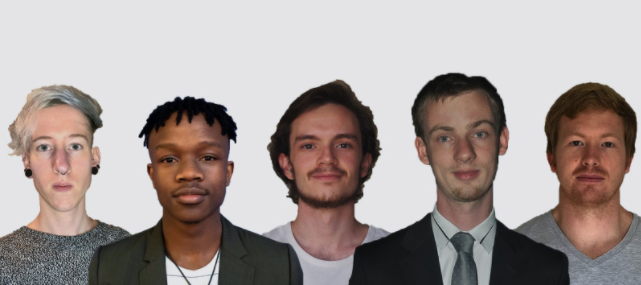
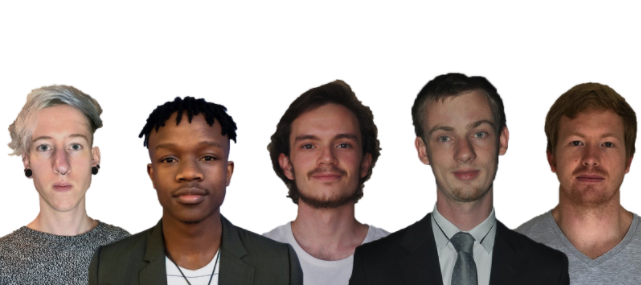
Updated JSON Selectors For Services
To accomodate the changes made to the API route paths, I modified the selectors responsible for accessing the relevant JSON object values from HTTP requests.

Other changes include:
-Changed the application name on the navigation bar and browser title bar.
-Removed the white background of the group photo in the About page.
-Changed sign-in form colors to prevent color blending.
-Changed footer color and modified footer content.

diff --git a/frontend/src/app/components/moderate/moderate.component.html b/frontend/src/app/components/moderate/moderate.component.html
@@ -20,8 +20,8 @@
                     <input matInput  type="text" formControlName="SourceName" [(ngModel)]="clearSearchSourceName"
                     aria-label="Number" matInput [formControl]="myControl" [matAutocomplete]="auto" required>
                     <mat-autocomplete #auto="matAutocomplete">
-                        <mat-option *ngFor="let option of filteredOptions | async" [value]="option.name">
-                          {{option.name}}
+                        <mat-option *ngFor="let option of filteredOptions | async" [value]="option.Name">
+                          {{option.Name}}
                         </mat-option>
                       </mat-autocomplete>
                     <button mat-button *ngIf="clearSearchSourceName" matSuffix mat-icon-button aria-label="Clear" (click)="clearSearchSourceName=''">
@@ -75,19 +75,19 @@
         <!--End of Form for searching a source-->
        
              <div class="Response-Cards">
-                    <div  *ngIf="sourcelist.source">
+                    <div  *ngIf="sourcelist">
                         <mat-card id="SearchResponseCard" class="example-card" *ngIf="dismiss">
                             <mat-card-header>
                             <div mat-card-avatar class="example-header-image"><img id="cardImg" src="assets/img/5bitslogo.png"/></div>
-                            <mat-card-title>{{sourcelist.source?.name}}</mat-card-title>
+                            <mat-card-title>{{sourcelist?.Name}}</mat-card-title>
                             </mat-card-header>
                             <mat-card-content>
-                                <p> <span>Source URL: </span> <i>{{sourcelist.source?.tld}}</i></p>
-                            <p> <span>Popularity Rating: </span><i>{{sourcelist.source?.rating}}</i></p> 
+                                <p> <span>Source URL: </span> <i>{{sourcelist['Domain Name']}}</i></p>
+                            <p> <span>Popularity Rating: </span><i>{{sourcelist?.Rating}}</i></p> 
                             </mat-card-content>
                             <mat-card-actions>
                             <button mat-raised-button color="accent" (click)="dismiss=false">Dismiss</button>
-                            <button mat-raised-button color="accent" (click)="DeleteSource(sourcelist.source?._id)">Delete Source</button>
+                            <button mat-raised-button color="accent" (click)="DeleteSource(sourcelist?.ID)">Delete Source</button>
                             </mat-card-actions>
                         </mat-card>
                     </div>
@@ -140,8 +140,8 @@
         <div id="listOfFacts">
             
             <ul style="list-style-type:none;"  *ngFor="let fact of factslist; let i = index">
-                <li *ngIf="7 > i">"{{fact.statement}}"</li>
-                {{fact.count}}
+                <li *ngIf="7 > i">"{{fact.Statement}}"</li>
+                
             </ul>
   
         </div>
@@ -170,7 +170,7 @@
                   </mat-form-field>
          
             <div>
-                <button mat-raised-button color="accent" type="submit">Insert Fact</button>
+                <a href="#AddedFactBookmark"><button mat-raised-button color="accent" type="submit">Insert Fact</button></a>
             </div>
     
             </form>
@@ -180,7 +180,7 @@
 
      <div class="Response-Cards">
         <!--Alternate divs that load when specific events occur-->
-            <div *ngIf="insertFactResponse">
+            <div *ngIf="insertFactResponse" id="AddedFactBookmark">
                 <mat-card color="primary" id="SearchResponseCard" class="example-card">
                     <mat-card-content>
                         <p> False fact has been added.</p> 

diff --git a/frontend/src/app/components/moderate/moderate.component.ts b/frontend/src/app/components/moderate/moderate.component.ts
@@ -111,8 +111,8 @@ export class ModerateComponent implements OnInit {
           return this.autocompleteService.getData()
           .pipe(
             map( 
-              response => response.sources.filter(option => { 
-              return option.name.toLowerCase().indexOf(val.toLowerCase()) === 0
+              response => response.response.Sources.filter(option => { 
+              return option.Name.toLowerCase().indexOf(val.toLowerCase()) === 0
             }))
           )
         }  
@@ -128,7 +128,7 @@ export class ModerateComponent implements OnInit {
 
         this.searchService.search(this.SourceInputForm.value.SourceName).
         subscribe((data: any={}) =>{
-            this.sourcelist = data;
+            this.sourcelist = data.response.Source;
             this.dismiss=true;
 
             //this.testSearch=true;
@@ -156,7 +156,7 @@ export class ModerateComponent implements OnInit {
           .getFactsList()
           .subscribe((data:any) => {
             console.log(data);
-            this.factslist = data.facts;
+            this.factslist = data.response.Facts;
           });
         }
       /* end of fetch list function */ 
@@ -225,7 +225,7 @@ export class ModerateComponent implements OnInit {
 
         if(this.SourceInputForm.valid){
           this.SourceInputForm.reset();
-          this.sourcelist.source = "";
+          this.sourcelist = "";
           this.searchNotFound = false;
         }
         

diff --git a/frontend/src/app/user-accountbutton/user-accountbutton.component.html b/frontend/src/app/user-accountbutton/user-accountbutton.component.html
@@ -16,9 +16,9 @@
             <!-- <div class="help-block text-center"><a href="">Forget the password ?</a></div> --> 
         
         <div>
-             <button type="submit" mat-raised-button color="primary"> Sign in </button>
+             <button type="submit" mat-raised-button color="accent"> Sign in </button>
         </div> <br>
-        <div class="help-block text-center"><h4 id="signupText">Are You New Here? <a  (click)="toggleForm()"> Sign Up</a> </h4>  </div>
+        <div class="help-block text-center"><h4 id="signupText">Are You New Here? <a  color="link" (click)="toggleForm()"> Sign Up</a> </h4>  </div>
     </form>
 
     <form class="form" *ngIf="signUp && !signIn">
@@ -40,9 +40,9 @@
         <!-- <div class="help-block text-center"><a href="">Forget the password ?</a></div> --> 
     
     <div>
-         <button type="submit" mat-raised-button color="primary">Sign Up</button>
+         <button type="submit" mat-raised-button color="accent">Sign Up</button>
     </div> <br>
-    <div class="help-block text-center"><h4 id="signupText">Already have one? <a  (click)="toggleForm()"> Sign In</a> </h4>  </div>
+    <div class="help-block text-center"><h4 id="signupText">Already have one? <a color="link" (click)="toggleForm()"> Sign In</a> </h4>  </div>
 </form>
     </a>
   </mat-menu>

diff --git a/frontend/src/app/components/header/header.component.html b/frontend/src/app/components/header/header.component.html
@@ -54,7 +54,7 @@
 
 
 <!-- Responsive navbar-->
-<div id="nav" style="height: 80vh;">
+<div id="nav" style="height: 85vh;">
   <mat-toolbar>
     <mat-toolbar-row>
       <button mat-icon-button (click)="sidenav.toggle()" fxShow="true" fxHide.gt-sm>
@@ -62,8 +62,8 @@
       </button>
       <span>
         <a id="navbrand" class="navbar-brand" routerLink=""><img src="assets/img/5bitslogo.png"> <span
-            class="titleText">AI News
-            Detector</span></a>
+            class="logoHead">ArtiFact
+            </span></a>
       </span>
       <span class="menu-spacer"></span>
       <div fxShow="true" fxHide.lt-md>

diff --git a/frontend/src/app/components/header/header.component.css b/frontend/src/app/components/header/header.component.css
@@ -1,3 +1,16 @@
+@font-face {
+    font-family: LogoHeading;
+    src: url("/assets/fonts/aquire-font/AquireLight-YzE0o.otf") format("truetype");
+}
+
+.logoHead{
+	font-family: LogoHeading;
+}
+
+#heading_link{
+	font-weight: 400;
+}
+
 img {
 	max-width: 20%;
 	height: auto;

diff --git a/frontend/src/app/delete-source.service.ts b/frontend/src/app/delete-source.service.ts
@@ -6,7 +6,7 @@ import { HttpClient } from '@angular/common/http';
 })
 export class DeleteSourceService {
 
-  url = 'http://fakenewsdetector.tech/api/sources/';
+  url = 'http://fakenewsdetector.tech/api/sources/id/';
 
   constructor(private _http: HttpClient) { }
 

diff --git a/frontend/src/index.html b/frontend/src/index.html
@@ -3,7 +3,7 @@
 
 <head>
   <meta charset="utf-8">
-  <title>Fake News Detector</title>
+  <title>ArtiFact</title>
   <base href="/">
   <meta name="viewport" content="width=device-width, initial-scale=1">
   <link rel="icon" type="image/x-icon" href="favicon.ico">

diff --git a/frontend/src/app/components/footer/footer.component.html b/frontend/src/app/components/footer/footer.component.html
@@ -3,6 +3,6 @@
     <br />
     <div id="FooterLogo"><img src="assets/img/5bitslogo.png"></div>
     <div id="FooterLogo">
-        <h2>© 2020 by 5Bits</h2>
+        <p id="footerText">© 2020 by 5Bits</p>
     </div>
 </footer>

diff --git a/frontend/src/app/components/footer/footer.component.css b/frontend/src/app/components/footer/footer.component.css
@@ -19,7 +19,7 @@ img {
 	margin-bottom: 0em;
 }
 
-h2 {
-	color: rgba(0, 0, 0, 0.4);
-	font-size: 3px;
+p {
+	padding-top: 10px;
+	font-size: 1.3em;
 }

diff --git a/frontend/src/assets/indigo-pink.css b/frontend/src/assets/indigo-pink.css
@@ -5,7 +5,11 @@
   }
 
 footer{
-	background-color:  #e7e8ea;
+	background-color:  white;
+}
+
+#footerText{
+	color: black;
 }
 
 body{

diff --git a/frontend/src/assets/pink-bluegrey.css b/frontend/src/assets/pink-bluegrey.css
@@ -5,7 +5,11 @@
   }
 
 footer{
-	background-color:  #303030;;
+	background-color:  #222;
+}
+
+#footerText{
+	color: white;
 }
 
 body{
